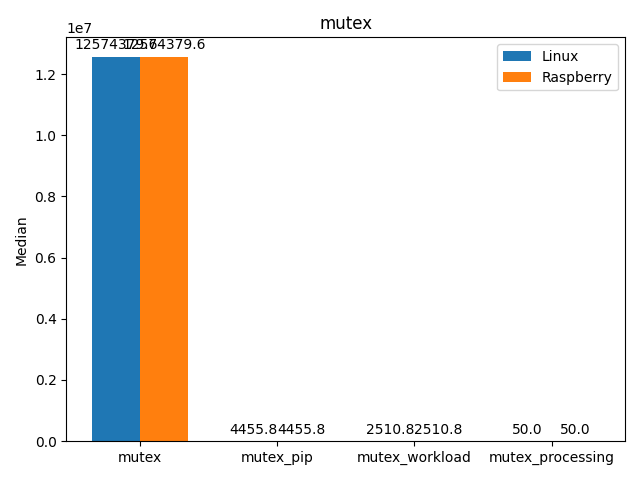
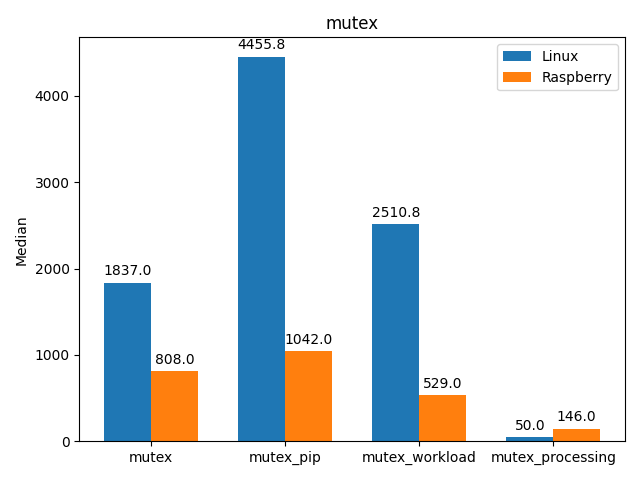
fix

diff --git a/Raspberry/RTOSBench/example/mixer.py b/Raspberry/RTOSBench/example/mixer.py
@@ -9,7 +9,7 @@ f = open("comparison.csv", "w")
 labels = { "mq": ['mq','mq_processing','mq_workload' ], "mutex":['mutex','mutex_pip','mutex_workload','mutex_processing' ],
          "sem": ["sem", 'sem_processing','sem_prio'], "round_robin": ["round_robin"]}
 
-median_array = {}
+min_index = 1;
 
 def plot_bar(linux_means, rasp_means, labels, name):
     #print(labels)
@@ -46,13 +46,17 @@ def plot_bar(linux_means, rasp_means, labels, name):
    # plt.show()
 
 
-def getArray(filepath, median):
+def getArray(filepath3, median):
     first = True
     name = 'def'
-    with open(filepath, newline='') as csvfile:
+    median_array = {}
+ #   print("neeeew\n")
+    #print(filepath)
+    with open(filepath3, newline='') as csvfile:
         spamreader = csv.reader(csvfile, delimiter=',')
         for row in spamreader:
             pom = row[0]
+          #  print(row)
             if pom.find("Max") != -1:
                 #print("ffff")
                 continue
@@ -68,21 +72,30 @@ def getArray(filepath, median):
                         first = True
                     else:
                         #print(name)
-                        median_array[name].append(int(float(row[median])))
+                        #value = int(flow(row[median]))
+                        value = int(float(row[median]))
+                        if (value > 10000):
+                            value = int(float(row[min_index]))
+                            print("taking mic instead of max: " + name )
+                        median_array[name].append(value)
     return median_array
 
 median_array_rasb = getArray(filepath, 3)
 median_array_linux = getArray(filepath2, 3)
 
 #print(median_array_rasb)
+#print(median_array_linux)
 for x, y in median_array_rasb.items():
     med_array = numpy.array(y)
-    new_value = numpy.mean(med_array)
+    new_value = round(numpy.mean(med_array),2)
     median_array_rasb[x] = new_value
 
 for x, y in median_array_linux.items():
     med_array = numpy.array(y)
-    new_value = numpy.mean(med_array)
+    
+    new_value = round(numpy.mean(med_array),2)
+    if (new_value > 10000):
+        new_value = numpy.min(med_array)
     median_array_linux[x] = new_value
 
 linux = []
